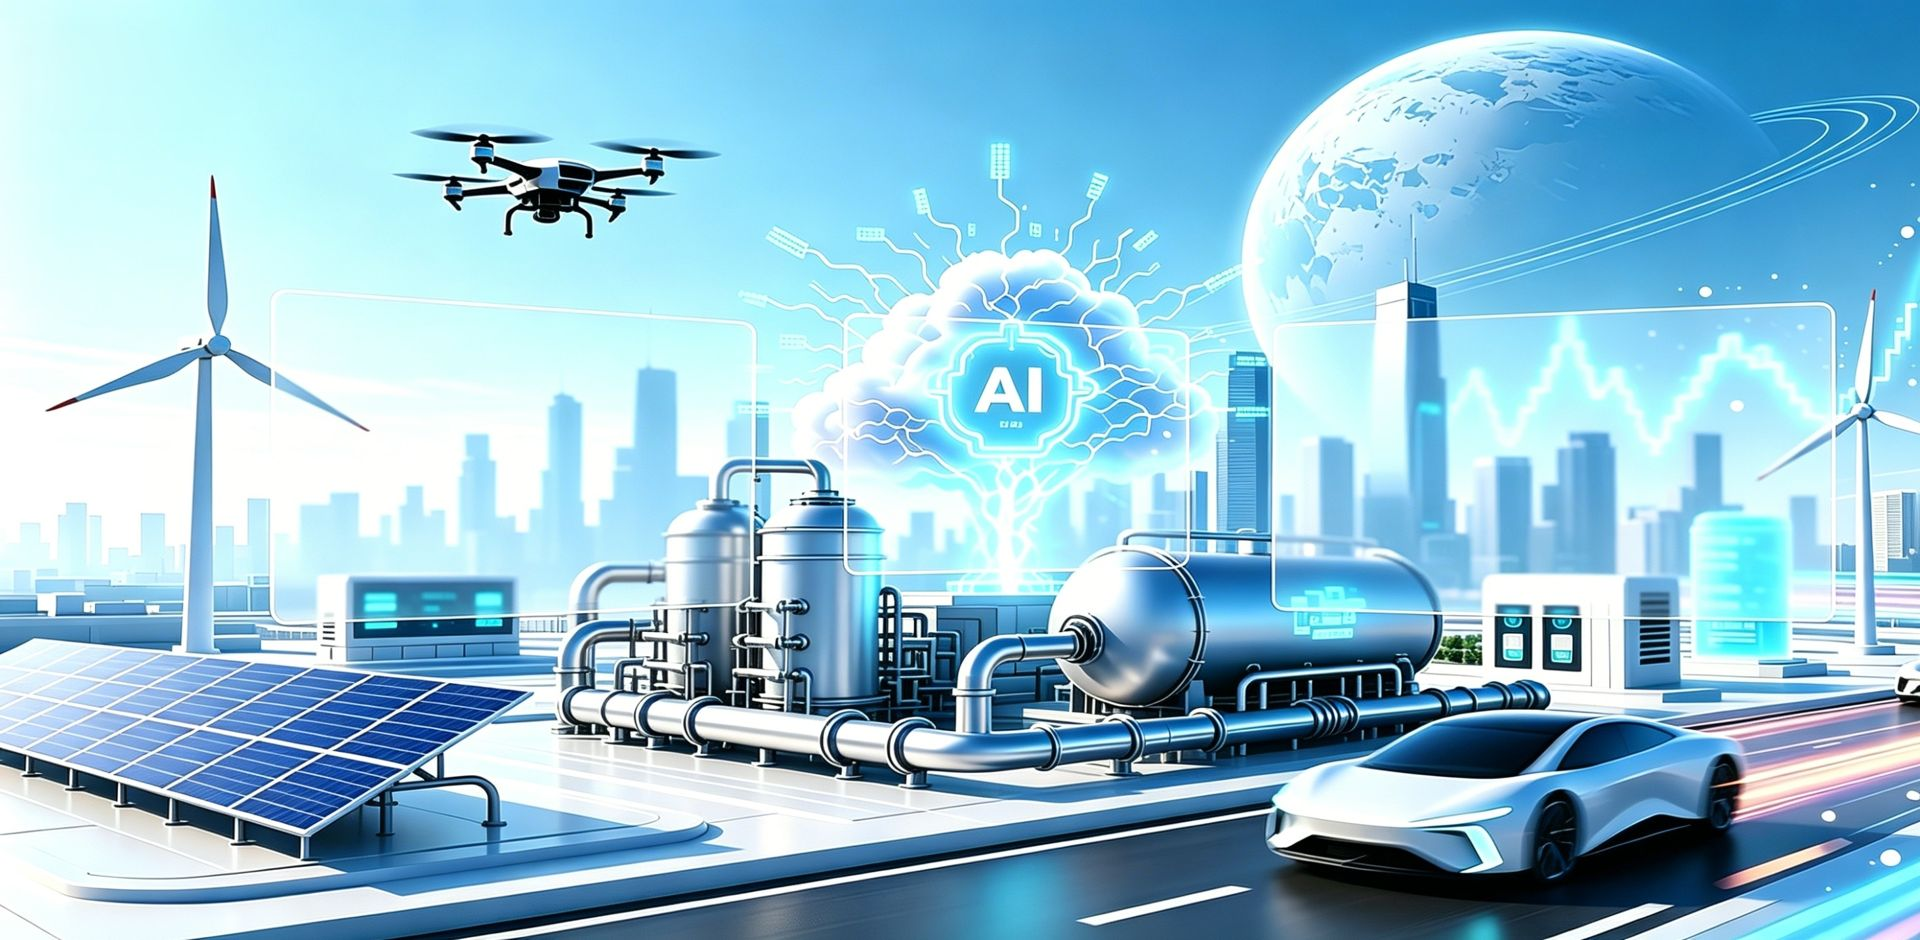
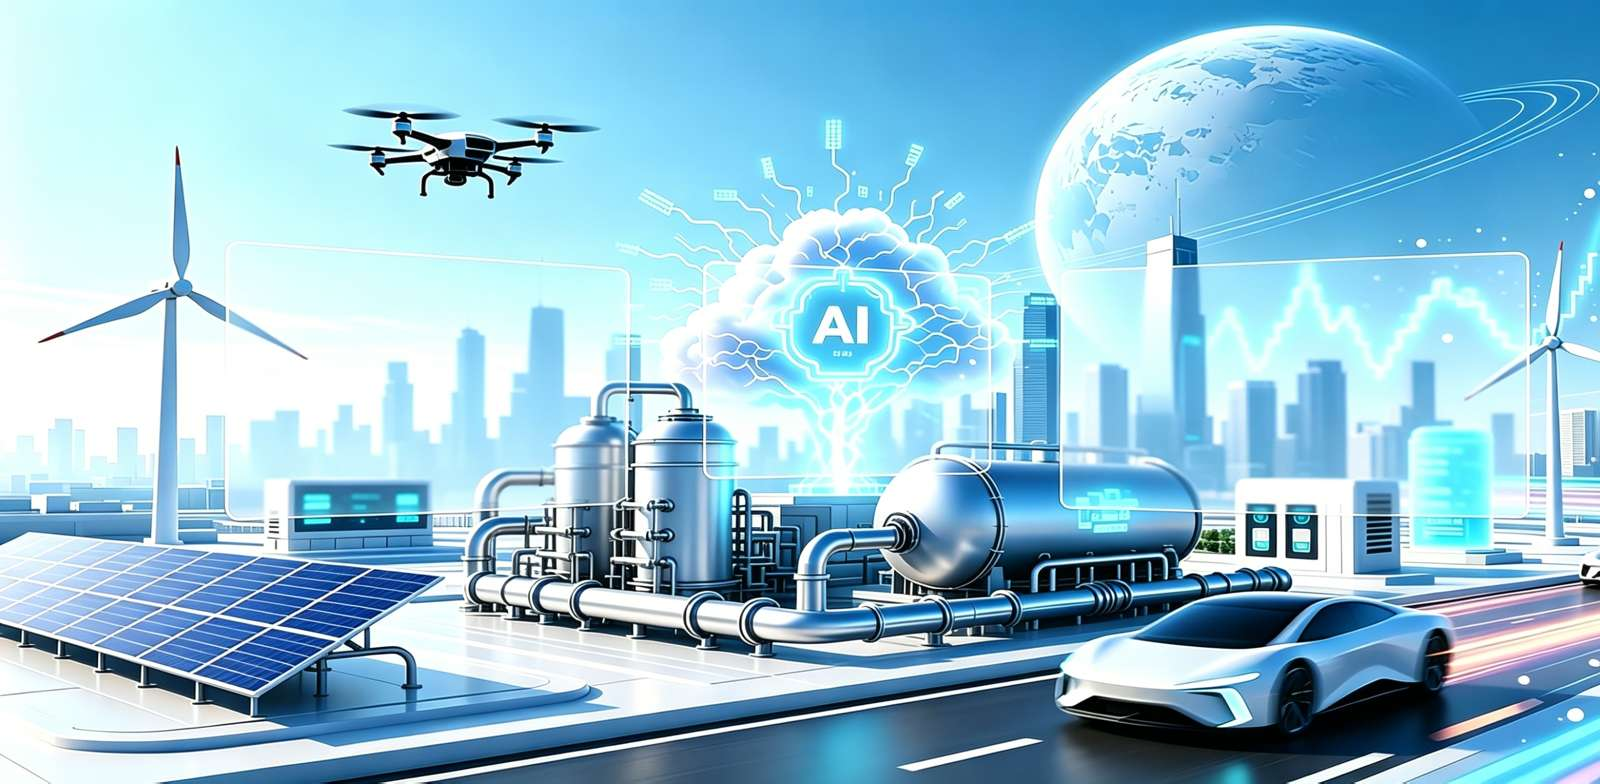
perf: WebP格式104KB+1600px

diff --git a/css/style.css b/css/style.css
@@ -267,7 +267,7 @@ p { margin-bottom: 12px; color: var(--color-text-light); }
 
 /* === Hero 区 === */
 .hero {
-  background: url('../images/hero-main.jpg') center/cover no-repeat;
+  background: url('../images/hero-main.webp') center/cover no-repeat;
   height: calc(100vh - var(--nav-height) - 60px);
   min-height: 400px;
   display: flex;

diff --git a/index.html b/index.html
@@ -6,7 +6,7 @@
   <meta name="description" content="西安星旭新能源科技有限公司 — 仿真模型库、教学培训系统、技术咨询服务">
   <title>星旭新能源 — 新能源仿真技术引领者</title>
   <link rel="icon" href="favicon.svg" type="image/svg+xml">
-  <link rel="preload" href="images/hero-main.jpg" as="image">
+  <link rel="preload" href="images/hero-main.webp" as="image">
   <link rel="stylesheet" href="css/style.css">
 </head>
 <body>